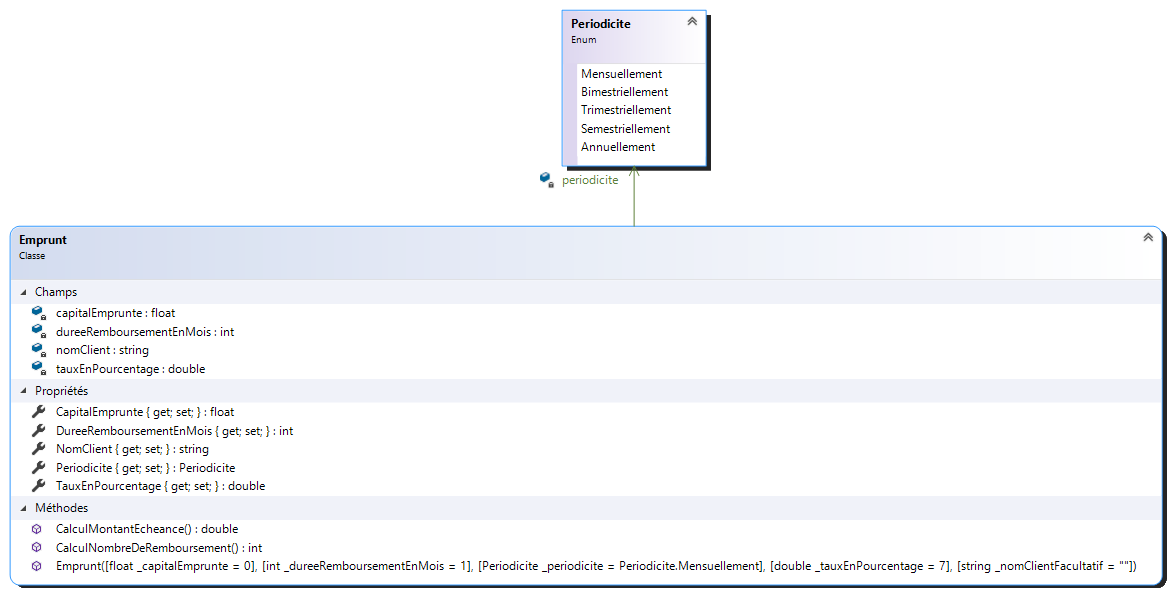
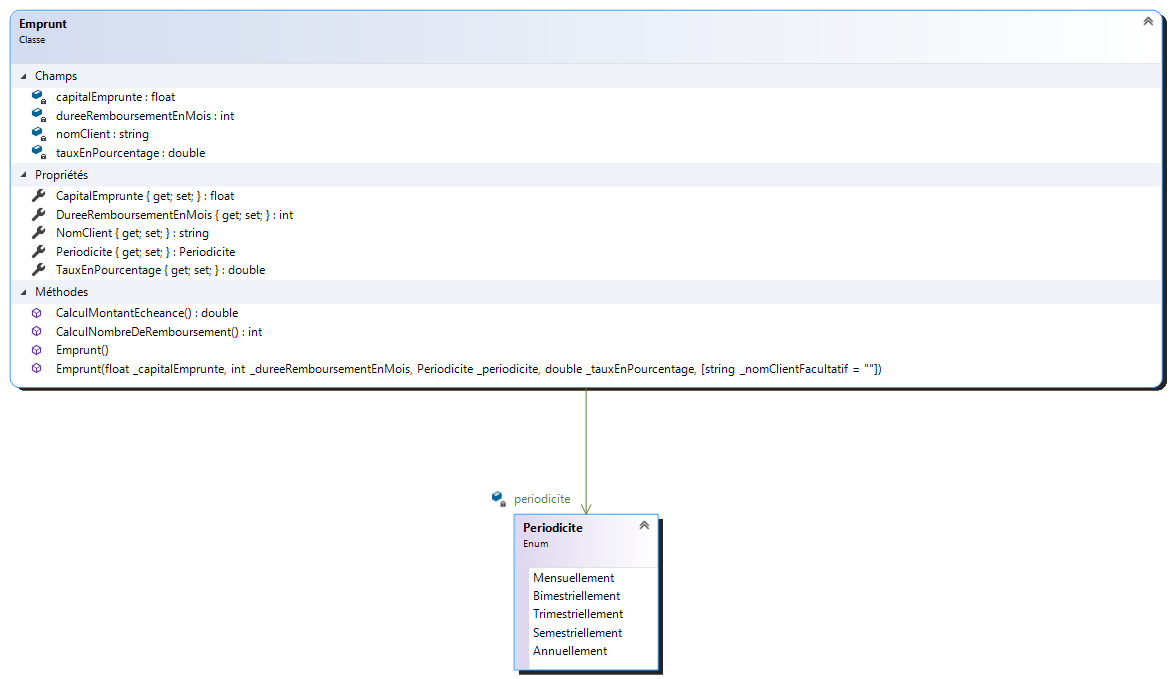
winform emprunt constructeur par defaut this

Changed region(s): [[0.0, 0.0, 1.0, 1.0]]

diff --git a/FOAD_C#/exercicesWinform/ClassLibraryEmprunt/Emprunt.cs b/FOAD_C#/exercicesWinform/ClassLibraryEmprunt/Emprunt.cs
@@ -14,7 +14,13 @@ namespace ClassLibraryEmprunt
         private Periodicite periodicite;
         private double tauxEnPourcentage;
 
-       
+        /// <summary>
+        /// Constructeur par défaut
+        /// </summary>
+        public Emprunt() : this(0, 1, Periodicite.Mensuellement, 7, "")
+        {
+        }
+
         /// <summary>
         /// Constructeur par defaut et avec parametres
         /// </summary>
@@ -23,7 +29,7 @@ namespace ClassLibraryEmprunt
         /// <param name="_periodicite"></param>
         /// <param name="_tauxEnPourcentage"></param>
         /// <param name="_nomClientFacultatif"></param>
-        public Emprunt(float _capitalEmprunte = 0, int _dureeRemboursementEnMois = 1, Periodicite _periodicite = Periodicite.Mensuellement, double _tauxEnPourcentage=7, string _nomClientFacultatif = "")
+        public Emprunt(float _capitalEmprunte, int _dureeRemboursementEnMois, Periodicite _periodicite, double _tauxEnPourcentage, string _nomClientFacultatif = "")
         {
             this.capitalEmprunte = _capitalEmprunte;
             this.dureeRemboursementEnMois = _dureeRemboursementEnMois;
